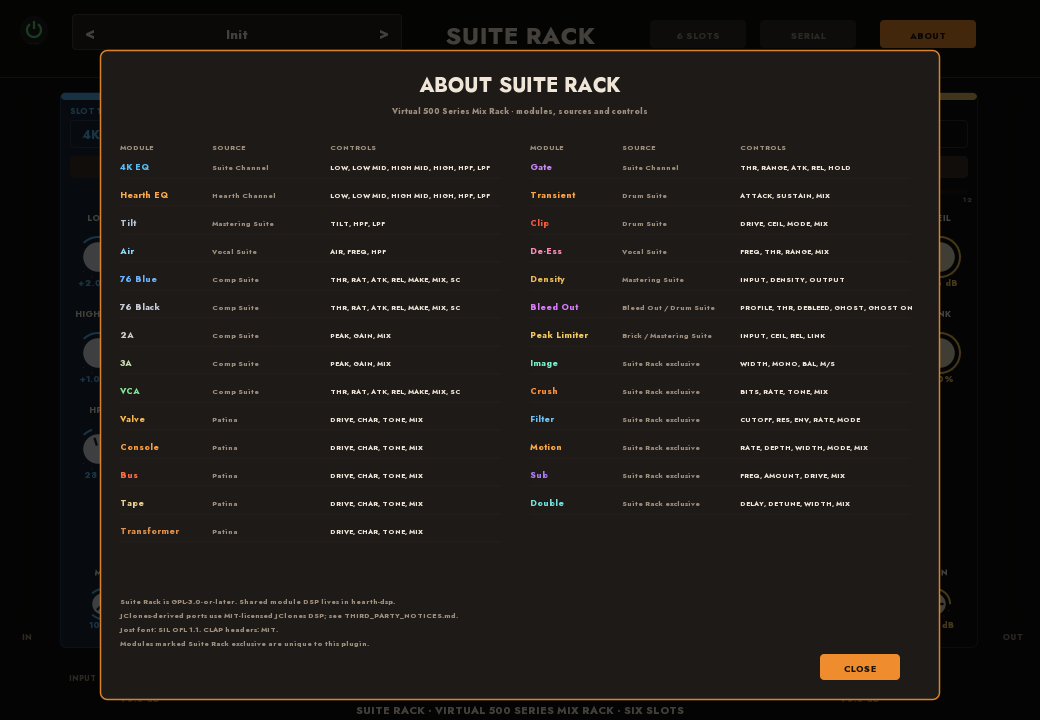
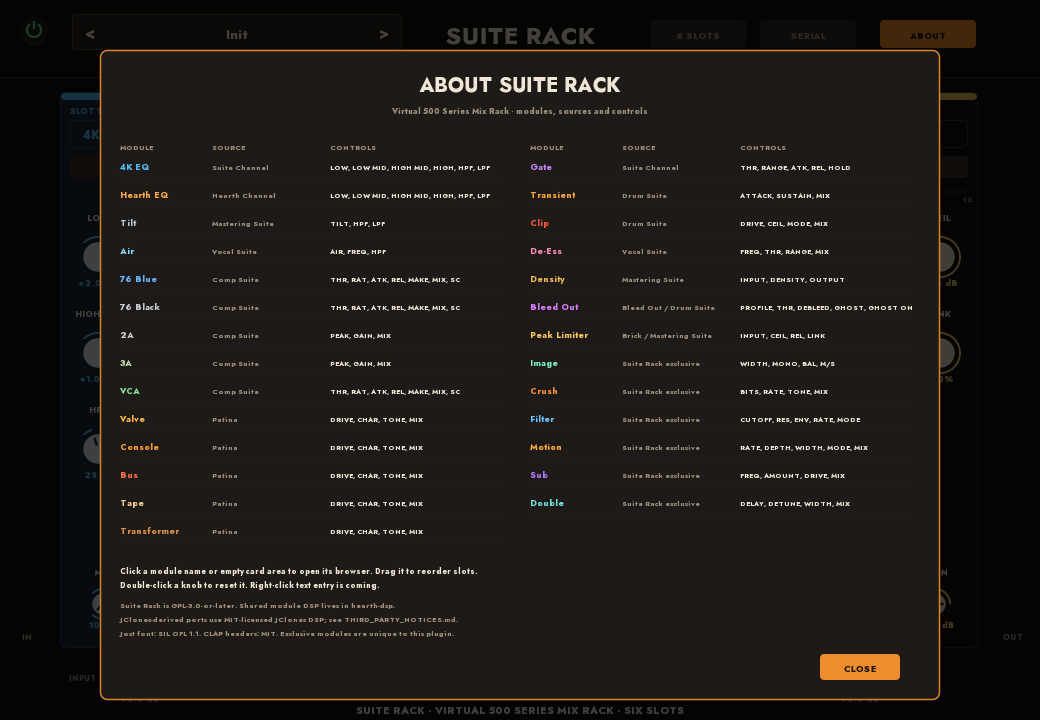
Suite Rack 0.12.1-m2 — live drag reorder, compact browser and About help

Changed region(s): [[0.0923, 0.7944, 0.4308, 0.9167]]

diff --git a/src/ui/panel.cpp b/src/ui/panel.cpp
@@ -246,6 +246,15 @@ void Panel::layout(const Shared& shared, const PanelState& state) {
     name.styleType = type;
     widgets_.push_back(name);
 
+    Widget handle{};
+    handle.kind = Kind::ModuleDragHandle;
+    handle.param = static_cast<uint32_t>(i);
+    handle.value = i;
+    handle.x = x + 4; handle.y = y + 8; handle.w = colW - 8; handle.h = 52;
+    handle.styleSlot = i;
+    handle.styleType = type;
+    widgets_.push_back(handle);
+
     Widget byp{};
     byp.kind = Kind::Pill;
     byp.param = slotParam(i, kSlotOffsetBypass);
@@ -291,10 +300,24 @@ void Panel::layout(const Shared& shared, const PanelState& state) {
     knob(slotParam(i, kSlotOffsetMix), x + colW * 0.30, y + 512, 13, "MIX", i);
     knob(slotParam(i, kSlotOffsetGain), x + colW * 0.70, y + 512, 13,
          "GAIN", i);
+
+    // Full-card fallback drag handle. Controls are added first, so knobs and
+    // buttons still win the hit test; clicking any empty part of the module
+    // starts a drag or opens the browser.
+    Widget card{};
+    card.kind = Kind::ModuleDragHandle;
+    card.param = static_cast<uint32_t>(i);
+    card.value = i;
+    card.x = x; card.y = y; card.w = colW; card.h = 556.0;
+    card.styleSlot = i;
+    card.styleType = type;
+    widgets_.push_back(card);
   }
 
   if (state.browserSlot >= 0 && state.browserSlot < kSlotCount) {
-    const double bx = 240, by = 140, bw = 560, bh = 420;
+    const double bx = 240, bw = 560;
+    const double bh = browserHeight(state.browserCategory);
+    const double by = browserY(state.browserCategory);
     for (int tab = 0; tab < 5; ++tab) {
       Widget t{};
       t.kind = Kind::BrowserTab;
@@ -427,17 +450,11 @@ void Panel::drawRack(cairo_t* cr, const Shared& shared,
     roundRect(cr, x, y, colW, h, 6);
     setRgb(cr, st.body); cairo_fill(cr);
     const bool dropTarget = slotDragging_ && dropSlot_ == i;
-    const bool dragSource = slotDragging_ && dragSlot_ == i;
     cairo_set_line_width(cr,
                          dropTarget ? 2.5 : (state.browserSlot == i ? 2.0 : 1.0));
     setRgb(cr, dropTarget ? st.accent : (state.browserSlot == i ? st.accent : st.edge),
            dropTarget ? 1.0 : (state.browserSlot == i ? 1.0 : 0.75));
     roundRect(cr, x + 0.5, y + 0.5, colW - 1, h - 1, 6); cairo_stroke(cr);
-    if (dragSource) {
-      setRgb(cr, st.body, 0.35);
-      roundRect(cr, x + 2, y + 2, colW - 4, h - 4, 5);
-      cairo_fill(cr);
-    }
     // 500-series colour cap.
     roundRect(cr, x + 1, y + 1, colW - 2, 7, 4);
     setRgb(cr, st.accent, 0.95); cairo_fill(cr);
@@ -460,13 +477,26 @@ void Panel::drawRack(cairo_t* cr, const Shared& shared,
        kDim.g, kDim.b);
 }
 
+double Panel::browserHeight(int category) const {
+  const int visible = std::min(browserEntryCount(category), 16);
+  const int rows = std::max(1, (visible + 3) / 4);
+  return 92.0 + rows * 54.0 + 70.0;
+}
+
+double Panel::browserY(int category) const {
+  const double h = browserHeight(category);
+  return 92.0 + std::max(0.0, (556.0 - h) * 0.5);
+}
+
 void Panel::drawBrowser(cairo_t* cr, const Shared& shared,
                         const PanelState& state) const {
   (void)shared;
   if (state.browserSlot < 0 || state.browserSlot >= kSlotCount) return;
   cairo_set_source_rgba(cr, 0.0, 0.0, 0.0, 0.64);
   cairo_paint(cr);
-  const double bx = 240, by = 140, bw = 560, bh = 420;
+  const double bx = 240, bw = 560;
+  const double bh = browserHeight(state.browserCategory);
+  const double by = browserY(state.browserCategory);
   roundRect(cr, bx, by, bw, bh, 6);
   setRgb(cr, {0.13, 0.115, 0.10}); cairo_fill(cr);
   setRgb(cr, kAccent, 0.85); cairo_set_line_width(cr, 1.5);
@@ -477,9 +507,9 @@ void Panel::drawBrowser(cairo_t* cr, const Shared& shared,
   text(cr, title, bx + bw * 0.5, by + 30, 14, 1, kText.r, kText.g, kText.b);
   text(cr, "One job per module · 3–8 controls · no deep pages", bx + bw * 0.5,
        by + 86, 8.5, 1, kDim.r, kDim.g, kDim.b);
-  const double tx = bx + 24, ty = by + 46;
+  const double tx = bx + 18, ty = by + 46;
   cairo_set_source_rgba(cr, 0.20, 0.17, 0.14, 0.7);
-  cairo_rectangle(cr, tx, ty, 500, 24);
+  cairo_rectangle(cr, tx, ty, 494, 24);
   cairo_fill(cr);
 }
 
@@ -533,14 +563,16 @@ void Panel::drawAbout(cairo_t* cr, const Shared& /*shared*/,
     cairo_stroke(cr);
   }
 
+  text(cr, "Click a module name or empty card area to open its browser. Drag it to reorder slots.",
+       120, 574, 7.5, 0, kText.r, kText.g, kText.b);
+  text(cr, "Double-click a knob to reset it. Right-click text entry is coming.",
+       120, 588, 7.5, 0, kText.r, kText.g, kText.b);
   text(cr, "Suite Rack is GPL-3.0-or-later. Shared module DSP lives in hearth-dsp.",
-       120, 604, 7.0, 0, kDim.r, kDim.g, kDim.b);
+       120, 608, 7.0, 0, kDim.r, kDim.g, kDim.b);
   text(cr, "JClones-derived ports use MIT-licensed JClones DSP; see THIRD_PARTY_NOTICES.md.",
-       120, 618, 7.0, 0, kDim.r, kDim.g, kDim.b);
-  text(cr, "Jost font: SIL OFL 1.1. CLAP headers: MIT.",
-       120, 632, 7.0, 0, kDim.r, kDim.g, kDim.b);
-  text(cr, "Modules marked Suite Rack exclusive are unique to this plugin.",
-       120, 646, 7.0, 0, kDim.r, kDim.g, kDim.b);
+       120, 622, 7.0, 0, kDim.r, kDim.g, kDim.b);
+  text(cr, "Jost font: SIL OFL 1.1. CLAP headers: MIT. Exclusive modules are unique to this plugin.",
+       120, 636, 7.0, 0, kDim.r, kDim.g, kDim.b);
 
   roundRect(cr, 820, 654, 80, 26, 4);
   setRgb(cr, kAccent);
@@ -604,6 +636,7 @@ void Panel::drawWidget(cairo_t* cr, const Widget& w, const Shared& shared,
       break;
     }
     case Kind::SlotCard:
+    case Kind::ModuleDragHandle:
       break;
     case Kind::ModuleName: {
       const int slot = static_cast<int>(w.value);
@@ -883,6 +916,17 @@ void Panel::drawDragGhost(cairo_t* cr, const Shared& shared) const {
        st.accent.r, st.accent.g, st.accent.b);
 }
 
+void Panel::beginSlotDrag(PanelState& state, int slot, double x, double y) {
+  state.selectedSlot = slot;
+  dragSlot_ = slot;
+  dropSlot_ = slot;
+  slotDragging_ = false;
+  dragStartX_ = x;
+  dragStartY_ = y;
+  dragX_ = x;
+  dragY_ = y;
+}
+
 bool Panel::pointerDown(Shared& shared, PanelState& state, double x, double y,
                         bool fine) {
   (void)fine;
@@ -935,14 +979,8 @@ bool Panel::pointerDown(Shared& shared, PanelState& state, double x, double y,
         state.selectedSlot = static_cast<int>(w.param);
         return true;
       case Kind::ModuleName:
-        state.selectedSlot = static_cast<int>(w.value);
-        dragSlot_ = static_cast<int>(w.value);
-        dropSlot_ = dragSlot_;
-        slotDragging_ = false;
-        dragStartX_ = x;
-        dragStartY_ = y;
-        dragX_ = x;
-        dragY_ = y;
+      case Kind::ModuleDragHandle:
+        beginSlotDrag(state, static_cast<int>(w.value), x, y);
         return true;
       case Kind::BrowserOption:
       case Kind::BrowserTab:
@@ -1017,7 +1055,16 @@ bool Panel::pointerMove(Shared& shared, PanelState& state, double x, double y,
     if (slotDragging_) {
       dragX_ = x;
       dragY_ = y;
-      dropSlot_ = slotAtX(x);
+      const int target = slotAtX(x);
+      if (target != dragSlot_) {
+        moveSlot(shared, dragSlot_, target);
+        dragSlot_ = target;
+        dropSlot_ = target;
+        state.selectedSlot = target;
+        state.presetDirty = true;
+      } else {
+        dropSlot_ = target;
+      }
     }
     return true;
   }
@@ -1036,12 +1083,9 @@ bool Panel::pointerMove(Shared& shared, PanelState& state, double x, double y,
 }
 
 void Panel::pointerUp(Shared& shared, PanelState& state) {
+  (void)shared;
   if (dragSlot_ >= 0) {
-    if (slotDragging_ && dropSlot_ >= 0 && dropSlot_ != dragSlot_) {
-      moveSlot(shared, dragSlot_, dropSlot_);
-      state.selectedSlot = dropSlot_;
-      state.presetDirty = true;
-    } else if (!slotDragging_) {
+    if (!slotDragging_) {
       state.selectedSlot = dragSlot_;
       state.browserSlot = dragSlot_;
       state.browserScroll = 0;

diff --git a/src/ui/panel.hpp b/src/ui/panel.hpp
@@ -77,7 +77,7 @@ public:
   std::vector<WidgetRect> widgetRects() const;
 
 private:
-  enum class Kind { Knob, Pill, Button, SlotCard, ModuleButton, ModelButton, ModuleToggle, Power, ModuleName, BrowserOption, BrowserTab, BrowserScroll };
+  enum class Kind { Knob, Pill, Button, SlotCard, ModuleButton, ModelButton, ModuleToggle, Power, ModuleName, ModuleDragHandle, BrowserOption, BrowserTab, BrowserScroll };
   struct Widget {
     Kind kind = Kind::Knob;
     uint32_t param = 0;
@@ -105,9 +105,12 @@ private:
   void drawButton(cairo_t* cr, const Widget& w, bool lit) const;
   void drawLevelMeter(cairo_t* cr, double x, double y, double w, double h,
                       double dbL, double dbR) const;
+  void beginSlotDrag(PanelState& state, int slot, double x, double y);
   void drawDragGhost(cairo_t* cr, const Shared& shared) const;
   void drawAbout(cairo_t* cr, const Shared& shared,
                  const PanelState& state) const;
+  double browserHeight(int category) const;
+  double browserY(int category) const;
   int slotAtX(double x) const;
   void moveSlot(Shared& shared, int from, int to);
   void drawGrMeter(cairo_t* cr, double x, double y, double w, double h,

diff --git a/test/ui_preview.cpp b/test/ui_preview.cpp
@@ -26,6 +26,10 @@ int main(int argc, char** argv) {
   state.browserSlot = 1;
   panel.draw(cr, s, state);
   cairo_surface_write_to_png(surf, (out + "/rack-browser.png").c_str());
+  state.browserCategory = 1;
+  panel.draw(cr, s, state);
+  cairo_surface_write_to_png(surf, (out + "/rack-browser-eq.png").c_str());
+  state.browserCategory = 0;
   state.browserSlot = -1;
   state.selectedSlot = 4;
   applyModuleDefaults(s, 4, static_cast<int>(ModuleId::BleedOut));

diff --git a/test/test_panel.cpp b/test/test_panel.cpp
@@ -195,6 +195,9 @@ int main() {
   dragPanel.draw(cr, dragS, dragState);
   dragPanel.pointerDown(dragS, dragState, 130, 134, false);
   dragPanel.pointerMove(dragS, dragState, 285, 134, false);
+  check(dragS.get(P_SLOT0_TYPE) ==
+            static_cast<double>(ModuleId::Comp76Blue),
+        "slots reorder live while dragging");
   dragPanel.pointerUp(dragS, dragState);
   check(dragS.get(P_SLOT0_TYPE) ==
             static_cast<double>(ModuleId::Comp76Blue),

diff --git a/src/version.hpp b/src/version.hpp
@@ -5,6 +5,6 @@
 namespace rack {
 constexpr int kVersionMajor = 0;
 constexpr int kVersionMinor = 12;
-constexpr int kVersionMicro = 0;
-constexpr const char* kVersion = "0.12.0-m2";
+constexpr int kVersionMicro = 1;
+constexpr const char* kVersion = "0.12.1-m2";
 } // namespace rack

diff --git a/README.md b/README.md
@@ -1,6 +1,6 @@
 # Suite Rack
 
-**Status: 0.12.0-m2 — CLAP + LV2, module registry, twenty-seven modules and drag reorder.**
+**Status: 0.12.1-m2 — CLAP + LV2, module registry, twenty-seven modules and drag reorder.**
 The rest of the catalog, drag/reorder, module presets, browser search and user
 presets are next.
 
@@ -20,6 +20,8 @@ standalone plugins remain the full versions.
 ![Suite Rack — compressor row](docs/rack-comp.png)
 
 ![Suite Rack — module browser](docs/rack-browser.png)
+
+![Suite Rack — EQ category](docs/rack-browser-eq.png)
 
 ![Suite Rack — Bleed Out](docs/rack-bleedout.png)
 
@@ -70,14 +72,14 @@ standalone plugins remain the full versions.
 Suite tools (spectral editor, De-Clip, De-Reverb, De-Noise). Those do not fit
 the 500-series format; Cleanup is the lightweight repair representative.
 
-## Current 0.12.0-m2 slice
+## Current 0.12.1-m2 slice
 
 - 1040×720 panel with the Comp Suite-family header: power, preset bar, centered
   title, utility pills.
 - Six vertical 500-series-style module columns, each with its own background and
   knob colour.
 - Per-slot bypass, mix and gain.
-- Drag a module name to another slot to reorder the rack; intervening modules shift to fill the gap.
+- Drag a module name or empty card area to another slot to reorder the rack; modules shift live to fill the gap.
 - Double-click a knob to reset it to the active module's default.
 - Stepped controls, used by the Bleed Out profile selector.
 - Bleed Out has a separate automated **GHOST ON** button.

diff --git a/CHANGELOG.md b/CHANGELOG.md
@@ -1,5 +1,12 @@
 # Changelog
 
+## 0.12.1-m2 — 2026-11-17
+
+- Drag reorder now updates the rack live as the pointer crosses slots.
+- The whole module card is draggable, not only the name button.
+- The module browser resizes to the number of options in the selected category.
+- The About reference explains click-to-browse and drag-to-reorder.
+
 ## 0.12.0-m2 — 2026-11-17
 
 - Drag a module name onto another slot to reorder the rack.
